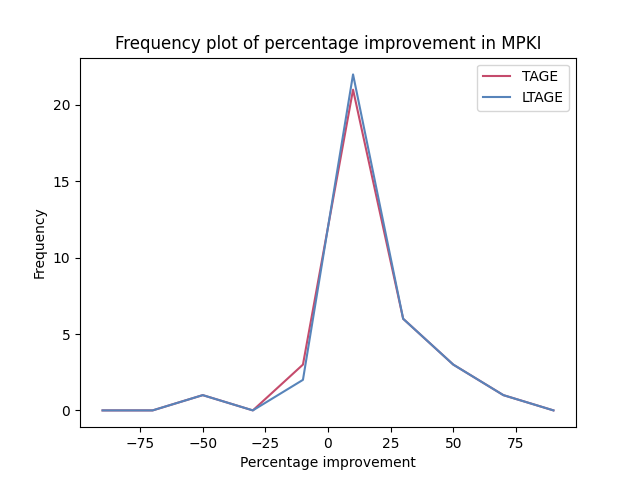
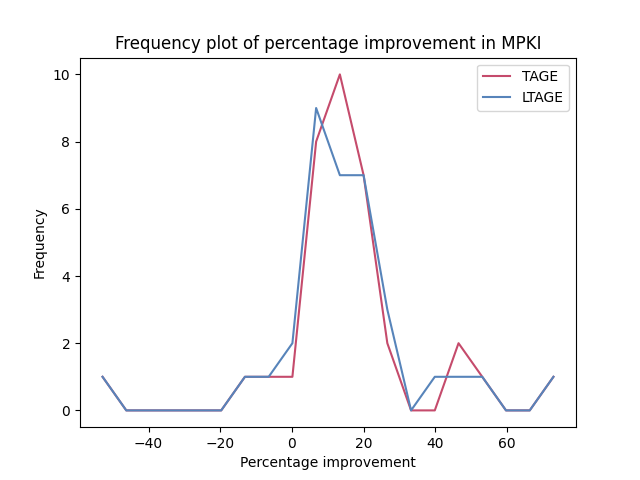
Corrected plots

diff --git a/generate_plots.py b/generate_plots.py
@@ -23,10 +23,15 @@ def make_bar_plot(df, name_col, col1, col2, param, side):
     plt.show()
 
 def make_plot(df, name_col, col1, col2, param):
+    print(df.head(5))
     print('Mean improvement in {} for TAGE: {:.4f}%'.format(param, df[col1].mean()))
     print('Mean improvement in {} for LTAGE: {:.4f}%'.format(param, df[col2].mean()))
+    print('{} is better than {} in {} server traces'.format(col2.upper(), col1.upper(), df[df[col2] >= df[col1]].shape[0]))
 
-    bins = np.arange(start = -100, stop = 120, step = 20)
+    lower = min(df[col1].min(), df[col2].min())
+    upper = max(df[col1].max(), df[col2].max())
+    print(lower, upper)
+    bins = np.linspace(start = lower, stop = upper, num = 21)
     d1, centers = np.histogram(df[col1], bins)
     d2, centers = np.histogram(df[col2], bins)
     centers = (centers[1:] + centers[:-1]) / 2
